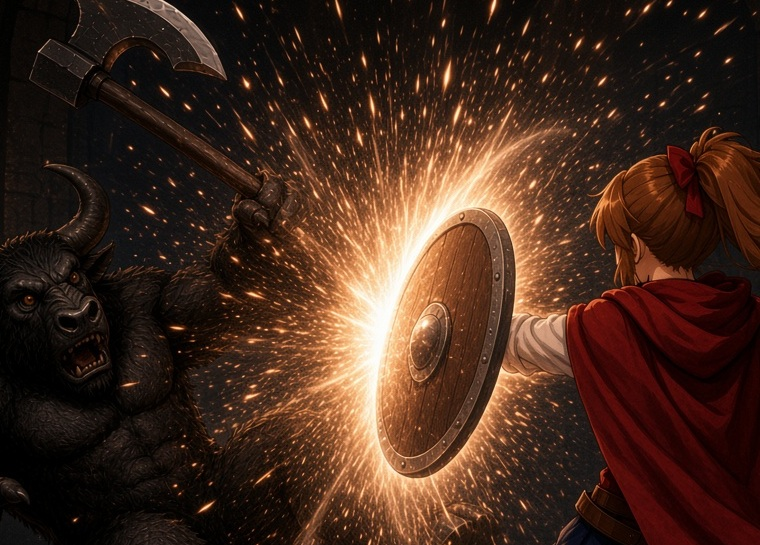
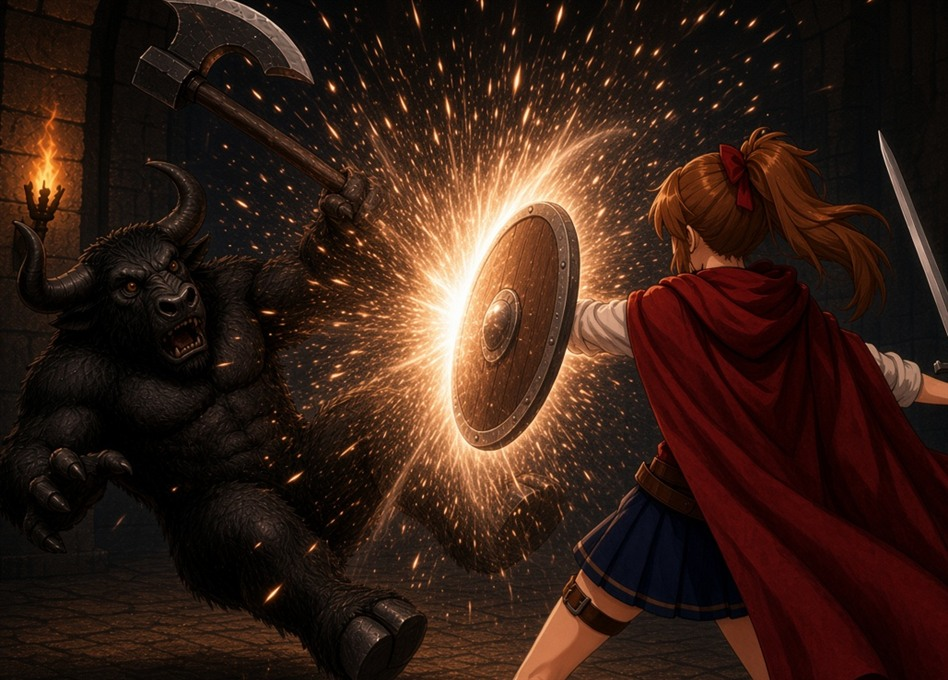
パリィカード絵を拡大前素材から少し寄せて差し替え（v=15）

diff --git a/index.html b/index.html
@@ -7291,7 +7291,7 @@
       アタック: "card-attack-f.jpg?v=13",
       チャージアタック: "card-charge-f.jpg?v=7",
       ブロック: "card-block-f.jpg?v=11",
-      パリィ: "card-parry.jpg?v=14",
+      パリィ: "card-parry.jpg?v=15",
       捨て身の一撃: "card-sacrifice.jpg?v=1",
       怒り: "card-anger.jpg?v=3",
       パリィスラッシュ: "card-parry-slash.jpg?v=1",
